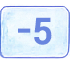
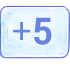
feat: 유리설탕 스킨 반투명 보드·카드 한 줄·안내판 정렬·스프라이트 갱신
- 판을 완전 투명 대신 반투명 보드(rgba .3)로 좌측 섹션을 하나로 묶고, 각 섹션은 밝기·테두리로 구분. 라운드 기록 사이드바도 보드로 통일
- '카드를 눌러 제출' 카드를 lg에서 flex-1 한 줄 배치 (10장 균등)
- 상태 안내를 안내판 프레임 정중앙에 정렬 (top-[6.4vw], 폭의 85.3% 중심)
- 상단(R)·우측(사이드바) 방사형 흰 스크림으로 배경 톤다운 (안내판 코너는 보존)
- 새 스프라이트 반영: round-panel(736x139)·btn-p5·card-noAction

Changed region(s): [[0.1714, 0.3385, 0.4571, 0.6154]]

diff --git a/components/game/modules/grape-sugar-2/index.tsx b/components/game/modules/grape-sugar-2/index.tsx
@@ -160,7 +160,7 @@ export default function GrapeSugar2Game() {
       {isCandy && (() => {
         const statusText = gs2StatusText(gameData.phase, mySubmitted, oppSubmitted, isSpectator, gameData.extension);
         return statusText ? (
-          <span className="skin-candy-signboard pointer-events-none absolute right-[3%] top-[2.6vw] z-30 hidden lg:block">
+          <span className="skin-candy-signboard pointer-events-none absolute left-[85.3%] top-[6.4vw] z-30 hidden -translate-x-1/2 lg:block">
             {statusText}
           </span>
         ) : null;
@@ -189,8 +189,8 @@ export default function GrapeSugar2Game() {
           </div>
         )}
 
-        {/* 좌측: 메인 게임 영역 */}
-        <div className="flex flex-1 flex-col gap-2 lg:gap-3 min-w-0">
+        {/* 좌측: 메인 게임 영역 — 캔디 스킨은 반투명 보드로 섹션을 하나로 묶음 */}
+        <div className={`flex flex-1 flex-col gap-2 lg:gap-3 min-w-0 ${isCandy ? 'skin-candy-board relative z-10 p-3 lg:p-4' : ''}`}>
           {/* 라운드 인디케이터 */}
           <RoundIndicator
             round={gameData.round}
@@ -267,7 +267,7 @@ export default function GrapeSugar2Game() {
         </div>
 
         {/* 우측: 사이드 패널 — 캔디 스킨은 상단 안내판과 겹치지 않게 아래로 내림 */}
-        <div className={`lg:w-72 xl:w-80 shrink-0 flex flex-col gap-2 lg:gap-3 ${isCandy ? 'lg:mt-28' : ''}`}>
+        <div className={`lg:w-72 xl:w-80 shrink-0 flex flex-col gap-2 lg:gap-3 ${isCandy ? 'relative z-10 lg:mt-28' : ''}`}>
           <RoundHistoryPanel
             history={gameData.history}
             players={gameData.players}
@@ -275,6 +275,7 @@ export default function GrapeSugar2Game() {
             open={showHistory}
             setOpen={setShowHistory}
             isRoundEnd={isRoundEnd}
+            candy={isCandy}
           />
         </div>
       </div>
@@ -903,7 +904,7 @@ function CardHand({
         </span>
         <span className={`text-[10px] ${candy ? 'skin-candy-subtext' : 'text-gray-400'}`}>잔여 {hand.length}장</span>
       </div>
-      <div className="flex flex-wrap gap-1.5 justify-center lg:gap-2">
+      <div className={`flex justify-center gap-1.5 ${candy ? 'flex-wrap lg:flex-nowrap lg:gap-1.5' : 'flex-wrap lg:gap-2'}`}>
         {CARD_IDS.map((c) => {
           const has = hand.includes(c);
           const style = CARD_STYLES[c];
@@ -913,7 +914,7 @@ function CardHand({
                 key={c}
                 className={
                   candy
-                    ? `skin-candy-card skin-candy-card--${c} skin-candy-card--spent flex w-16 flex-col items-center justify-center sm:w-20 lg:w-24`
+                    ? `skin-candy-card skin-candy-card--${c} skin-candy-card--spent flex w-16 flex-col items-center justify-center sm:w-20 lg:w-auto lg:min-w-0 lg:flex-1 lg:max-w-24`
                     : 'flex flex-col items-center justify-center rounded-lg border-2 border-gray-200 bg-gray-50 w-12 h-16 sm:w-14 sm:h-20 lg:w-16 lg:h-[88px] opacity-30'
                 }
               >
@@ -935,7 +936,7 @@ function CardHand({
               className={
                 candy
                   ? `skin-candy-card skin-candy-card--${c} skin-candy-card-btn flex flex-col items-center justify-center select-none
-                     w-16 sm:w-20 lg:w-24 ${canAct ? 'cursor-pointer' : 'opacity-60 cursor-not-allowed'}`
+                     w-16 sm:w-20 lg:w-auto lg:min-w-0 lg:flex-1 lg:max-w-24 ${canAct ? 'cursor-pointer' : 'opacity-60 cursor-not-allowed'}`
                   : `flex flex-col items-center justify-center rounded-lg border-2 transition-all select-none
                      w-12 h-16 sm:w-14 sm:h-20 lg:w-16 lg:h-[88px]
                      ${canAct
@@ -1034,7 +1035,7 @@ function CardSubmitModal({
 /* ────────── 라운드 히스토리 ────────── */
 
 function RoundHistoryPanel({
-  history, players, mySide, open, setOpen, isRoundEnd,
+  history, players, mySide, open, setOpen, isRoundEnd, candy,
 }: {
   history: GS2RoundRecord[];
   players: { p1: GS2PlayerPublic; p2: GS2PlayerPublic };
@@ -1042,19 +1043,20 @@ function RoundHistoryPanel({
   open: boolean;
   setOpen: (v: boolean) => void;
   isRoundEnd: boolean;
+  candy?: boolean;
 }) {
   void isRoundEnd;
   const orderedSides: GS2Side[] = mySide === 'p2' ? ['p2', 'p1'] : ['p1', 'p2'];
 
   return (
-    <div className="rounded-xl border border-gray-200 bg-white">
+    <div className={candy ? 'skin-candy-board' : 'rounded-xl border border-gray-200 bg-white'}>
       <button
         type="button"
         onClick={() => setOpen(!open)}
-        className="flex w-full items-center justify-between px-3 py-2.5 text-sm font-semibold text-gray-700"
+        className={`flex w-full items-center justify-between px-3 py-2.5 text-sm font-semibold ${candy ? 'skin-candy-heading' : 'text-gray-700'}`}
       >
         라운드 기록
-        <span className="text-xs text-gray-400">{open ? '접기 ▲' : '펼치기 ▼'}</span>
+        <span className={`text-xs ${candy ? 'skin-candy-subtext' : 'text-gray-400'}`}>{open ? '접기 ▲' : '펼치기 ▼'}</span>
       </button>
       {open && (
         <div className="border-t border-gray-100 p-2 space-y-1.5 max-h-72 overflow-y-auto lg:max-h-[500px]">

diff --git a/app/globals.css b/app/globals.css
@@ -2015,12 +2015,17 @@ body {
   background: transparent;
 }
 
-/* 반짝임 FX */
+/* 반짝임 FX + 가독성 스크림 (상단 R영역·우측에 흰 그라데이션 → 배경 톤다운) */
 .skin-candy-fx {
   position: absolute;
   inset: 0;
   pointer-events: none;
   z-index: 0;
+  background:
+    /* 상단(라운드 인디케이터 영역) — 우측 상단 안내판은 피하도록 중앙-좌측에 집중 */
+    radial-gradient(ellipse 65% 45% at 38% -8%, rgba(255, 255, 255, 0.72) 0%, rgba(255, 255, 255, 0.32) 45%, transparent 72%),
+    /* 우측(사이드바 영역) — 안내판(상단) 아래에서 시작하도록 중앙-우측에 집중 */
+    radial-gradient(ellipse 38% 62% at 108% 62%, rgba(255, 255, 255, 0.6) 0%, rgba(255, 255, 255, 0.26) 45%, transparent 74%);
 }
 .skin-candy-sparkle {
   position: absolute;
@@ -2034,15 +2039,23 @@ body {
   0%, 100% { opacity: 0; transform: scale(0.6) rotate(0deg); }
   50%      { opacity: 0.85; transform: scale(1.1) rotate(20deg); }
 }
-/* ── 패널 (서리 유리) — 시안의 흰 프로스트 판. 테두리를 흐려 배경과 한 몸처럼 ── */
-.skin-candy-panel {
-  background: linear-gradient(180deg, rgba(255, 255, 255, 0.78) 0%, rgba(255, 255, 255, 0.55) 100%);
-  border: 1px solid rgba(255, 255, 255, 0.85);
-  border-radius: 1rem;
+/* ── 보드 — 여러 섹션을 하나로 묶는 반투명 배경판 ── */
+.skin-candy-board {
+  background: rgba(255, 255, 255, 0.3);
+  border: 1px solid rgba(255, 255, 255, 0.5);
+  border-radius: 1.35rem;
   box-shadow:
-    0 6px 18px rgba(130, 110, 185, 0.14),
-    inset 0 1px 0 rgba(255, 255, 255, 0.95);
-  backdrop-filter: blur(5px);
+    0 8px 24px rgba(130, 110, 185, 0.14),
+    inset 0 1px 0 rgba(255, 255, 255, 0.6);
+  backdrop-filter: blur(4px);
+}
+
+/* ── 패널 — 보드 위 개별 섹션. 살짝 더 밝은 반투명 + 얇은 테두리로 서로 구분 ── */
+.skin-candy-panel {
+  background: rgba(255, 255, 255, 0.26);
+  border: 1px solid rgba(255, 255, 255, 0.5);
+  border-radius: 0.85rem;
+  box-shadow: inset 0 1px 0 rgba(255, 255, 255, 0.5);
 }
 .skin-candy-heading { color: var(--cd-ink, #5b54a8); }
 .skin-candy-subtext { color: var(--cd-ink-dim, #9a8fc4); }
@@ -2065,8 +2078,8 @@ body {
 .skin-candy-round {
   position: relative;
   background: url('/skins/candy/round-panel.png') center / 100% 100% no-repeat;
-  aspect-ratio: 600 / 145;
-  max-height: 4.5rem;
+  aspect-ratio: 736 / 139;
+  max-height: 4.75rem;
   display: flex;
   align-items: center;
   justify-content: center;
